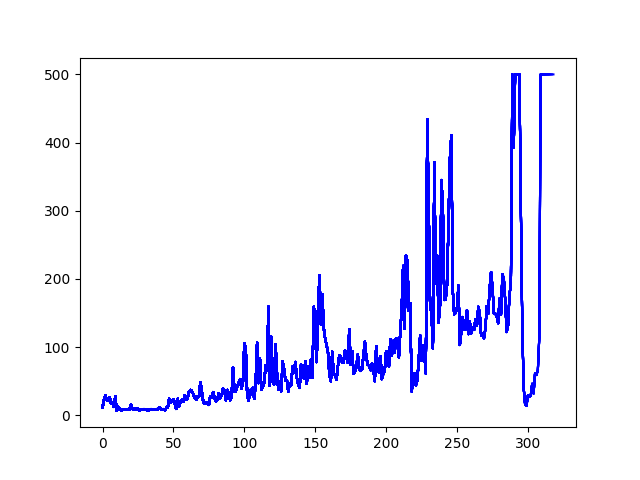
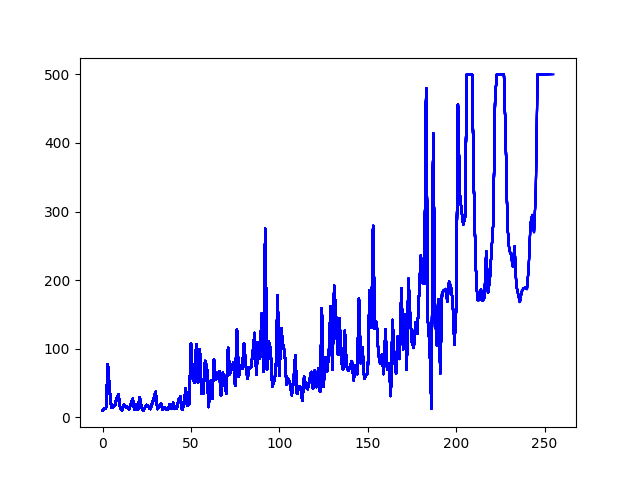
fix model saving part and make a2c code to be trainable

diff --git a/2-cartpole/2-actor-critic/cartpole_a2c.py b/2-cartpole/2-actor-critic/cartpole_a2c.py
@@ -5,36 +5,37 @@ import numpy as np
 from keras.layers import Dense
 from keras.models import Sequential
 from keras.optimizers import Adam
+from keras import backend as K
 
 EPISODES = 1000
 
 
-# A2C(Advantage Actor-Critic) agent for the Cartpole
+# 카트폴 예제에서의 액터-크리틱(A2C) 에이전트
 class A2CAgent:
     def __init__(self, state_size, action_size):
-        # if you want to see Cartpole learning, then change to True
         self.render = False
         self.load_model = False
-        # get size of state and action
+        # 상태와 행동의 크기 정의
         self.state_size = state_size
         self.action_size = action_size
         self.value_size = 1
 
-        # These are hyper parameters for the Policy Gradient
+        # 액터-크리틱 하이퍼파라미터
         self.discount_factor = 0.99
         self.actor_lr = 0.001
         self.critic_lr = 0.005
 
-        # create model for policy network
+        # 정책신경망과 가치신경망 생성
         self.actor = self.build_actor()
         self.critic = self.build_critic()
+        self.actor_updater = self.actor_optimizer()
+        self.critic_updater = self.critic_optimizer()
 
         if self.load_model:
             self.actor.load_weights("./save_model/cartpole_actor_trained.h5")
             self.critic.load_weights("./save_model/cartpole_critic_trained.h5")
 
-    # approximate policy and value using Neural Network
-    # actor: state is input and probability of each action is output of model
+    # actor: 상태를 받아 각 행동의 확률을 계산
     def build_actor(self):
         actor = Sequential()
         actor.add(Dense(24, input_dim=self.state_size, activation='relu',
@@ -42,54 +43,80 @@ class A2CAgent:
         actor.add(Dense(self.action_size, activation='softmax',
                         kernel_initializer='he_uniform'))
         actor.summary()
-        actor.compile(loss='categorical_crossentropy',
-                      optimizer=Adam(lr=self.critic_lr))
         return actor
 
-    # critic: state is input and value of state is output of model
+    # critic: 상태를 받아서 상태의 가치를 계산
     def build_critic(self):
         critic = Sequential()
+        critic.add(Dense(24, input_dim=self.state_size, activation='relu',
+                         kernel_initializer='he_uniform'))
         critic.add(Dense(24, input_dim=self.state_size, activation='relu',
                          kernel_initializer='he_uniform'))
         critic.add(Dense(self.value_size, activation='linear',
                          kernel_initializer='he_uniform'))
         critic.summary()
-        critic.compile(loss="mse", optimizer=Adam(lr=self.critic_lr))
         return critic
 
-    # using the output of policy network, pick action stochastically
+    # 정책신경망의 출력을 받아 확률적으로 행동을 선택
     def get_action(self, state):
         policy = self.actor.predict(state, batch_size=1).flatten()
         return np.random.choice(self.action_size, 1, p=policy)[0]
 
-    # update policy network every episode
-    def train_model(self, state, action, reward, next_state, done):
-        target = np.zeros((1, self.value_size))
-        advantages = np.zeros((1, self.action_size))
+    # 정책신경망을 업데이트하는 함수
+    def actor_optimizer(self):
+        action = K.placeholder(shape=[None, self.action_size])
+        advantage = K.placeholder(shape=[None, ])
 
+        action_prob = K.sum(action * self.actor.output, axis=1)
+        cross_entropy = K.log(action_prob) * advantage
+        loss = -K.sum(cross_entropy)
+
+        optimizer = Adam(lr=self.actor_lr)
+        updates = optimizer.get_updates(self.actor.trainable_weights, [], loss)
+        train = K.function([self.actor.input, action, advantage], [],
+                           updates=updates)
+        return train
+
+    # 가치신경망을 업데이트하는 함수
+    def critic_optimizer(self):
+        target = K.placeholder(shape=[None, ])
+
+        loss = K.mean(K.square(target - self.critic.output))
+
+        optimizer = Adam(lr=self.critic_lr)
+        updates = optimizer.get_updates(self.critic.trainable_weights, [], loss)
+        train = K.function([self.critic.input, target], [], updates=updates)
+
+        return train
+
+    # 각 타임스텝마다 정책신경망과 가치신경망을 업데이트
+    def train_model(self, state, action, reward, next_state, done):
         value = self.critic.predict(state)[0]
         next_value = self.critic.predict(next_state)[0]
 
-        if done:
-            advantages[0][action] = reward - value
-            target[0][0] = reward
-        else:
-            advantages[0][action] = reward + self.discount_factor * (
-                next_value - value)
-            target[0][0] = reward + self.discount_factor * next_value
+        act = np.zeros([1, self.action_size])
+        act[0][action] = 1
 
-        self.actor.fit(state, advantages, epochs=1, verbose=0)
-        self.critic.fit(state, target, epochs=1, verbose=0)
+        # 벨만 기대 방정식를 이용한 어드벤티지와 업데이트 타깃
+        if done:
+            advantage = reward - value
+            target = [reward]
+        else:
+            advantage = (reward + self.discount_factor * next_value) - value
+            target = reward + self.discount_factor * next_value
+
+        self.actor_updater([state, act, advantage])
+        self.critic_updater([state, target])
 
 
 if __name__ == "__main__":
-    # In case of CartPole-v1, maximum length of episode is 500
+    # CartPole-v1 환경, 최대 타임스텝 수가 500
     env = gym.make('CartPole-v1')
-    # get size of state and action from environment
+    # 환경으로부터 상태와 행동의 크기를 받아옴
     state_size = env.observation_space.shape[0]
     action_size = env.action_space.n
 
-    # make A2C agent
+    # 액터-크리틱(A2C) 에이전트 생성
     agent = A2CAgent(state_size, action_size)
 
     scores, episodes = [], []
@@ -107,7 +134,7 @@ if __name__ == "__main__":
             action = agent.get_action(state)
             next_state, reward, done, info = env.step(action)
             next_state = np.reshape(next_state, [1, state_size])
-            # if an action make the episode end, then gives penalty of -100
+            # 에피소드가 중간에 끝나면 -100 보상
             reward = reward if not done or score == 499 else -100
 
             agent.train_model(state, action, reward, next_state, done)
@@ -116,7 +143,7 @@ if __name__ == "__main__":
             state = next_state
 
             if done:
-                # every episode, plot the play time
+                # 에피소드마다 학습 결과 출력
                 score = score if score == 500.0 else score + 100
                 scores.append(score)
                 episodes.append(e)
@@ -124,12 +151,8 @@ if __name__ == "__main__":
                 pylab.savefig("./save_graph/cartpole_a2c.png")
                 print("episode:", e, "  score:", score)
 
-                # if the mean of scores of last 10 episode is bigger than 490
-                # stop training
+                # 이전 10개 에피소드의 점수 평균이 490보다 크면 학습 중단
                 if np.mean(scores[-min(10, len(scores)):]) > 490:
+                    agent.actor.save_weights("./save_model/cartpole_actor.h5")
+                    agent.critic.save_weights("./save_model/cartpole_critic.h5")
                     sys.exit()
-
-        # save the model
-        if e % 50 == 0:
-            agent.actor.save_weights("./save_model/cartpole_actor_trained.h5")
-            agent.critic.save_weights("./save_model/cartpole_critic_trained.h5")

diff --git a/2-cartpole/1-dqn/cartpole_dqn.py b/2-cartpole/1-dqn/cartpole_dqn.py
@@ -14,7 +14,6 @@ EPISODES = 300
 # 카트폴 예제에서의 DQN 에이전트
 class DQNAgent:
     def __init__(self, state_size, action_size):
-        # 카트폴이 학습하는 모습을 보고 싶으면 self.render 을 True로 설정
         self.render = False
         self.load_model = False
 
@@ -22,7 +21,7 @@ class DQNAgent:
         self.state_size = state_size
         self.action_size = action_size
 
-        # DQN 하이퍼 파라미터
+        # DQN 하이퍼파라미터
         self.discount_factor = 0.99
         self.learning_rate = 0.001
         self.epsilon = 1.0
@@ -30,20 +29,21 @@ class DQNAgent:
         self.epsilon_min = 0.01
         self.batch_size = 64
         self.train_start = 1000
-        # 리플레이 메모리 , 최대 크기 2000
+
+        # 리플레이 메모리, 최대 크기 2000
         self.memory = deque(maxlen=2000)
 
-        # 모델과 타겟 모델 생성
+        # 모델과 타깃 모델 생성
         self.model = self.build_model()
         self.target_model = self.build_model()
 
-        # 타겟 모델 초기화
+        # 타깃 모델 초기화
         self.update_target_model()
 
         if self.load_model:
             self.model.load_weights("./save_model/cartpole_dqn_trained.h5")
 
-    # 상태가 입력 큐함수가 출력인 인공신경망 생성
+    # 상태가 입력, 큐함수가 출력인 인공신경망 생성
     def build_model(self):
         model = Sequential()
         model.add(Dense(24, input_dim=self.state_size, activation='relu',
@@ -56,7 +56,7 @@ class DQNAgent:
         model.compile(loss='mse', optimizer=Adam(lr=self.learning_rate))
         return model
 
-    # 타겟 모델을 모델의 가중치로 업데이트
+    # 타깃 모델을 모델의 가중치로 업데이트
     def update_target_model(self):
         self.target_model.set_weights(self.model.get_weights())
 
@@ -68,52 +68,49 @@ class DQNAgent:
             q_value = self.model.predict(state)
             return np.argmax(q_value[0])
 
-    # 샘플 <s,a,r,s'> 을 리플레이 메모리에 저장
+    # 샘플 <s, a, r, s'>을 리플레이 메모리에 저장
     def append_sample(self, state, action, reward, next_state, done):
         self.memory.append((state, action, reward, next_state, done))
-        if self.epsilon > self.epsilon_min:
-            self.epsilon *= self.epsilon_decay
 
     # 리플레이 메모리에서 무작위로 추출한 배치로 모델 학습
     def train_model(self):
-        if len(self.memory) < self.train_start:
-            return
-        # 메모리에서 배치크기만큼 무작위로 샘플 추출
-        batch_size = min(self.batch_size, len(self.memory))
-        mini_batch = random.sample(self.memory, batch_size)
+        if self.epsilon > self.epsilon_min:
+            self.epsilon *= self.epsilon_decay
 
-        update_input = np.zeros((batch_size, self.state_size))
-        update_target = np.zeros((batch_size, self.state_size))
-        action, reward, done = [], [], []
+        # 메모리에서 배치 크기만큼 무작위로 샘플 추출
+        mini_batch = random.sample(self.memory, self.batch_size)
+
+        states = np.zeros((self.batch_size, self.state_size))
+        next_states = np.zeros((self.batch_size, self.state_size))
+        actions, rewards, dones = [], [], []
 
         for i in range(self.batch_size):
-            update_input[i] = mini_batch[i][0]
-            action.append(mini_batch[i][1])
-            reward.append(mini_batch[i][2])
-            update_target[i] = mini_batch[i][3]
-            done.append(mini_batch[i][4])
+            states[i] = mini_batch[i][0]
+            actions.append(mini_batch[i][1])
+            rewards.append(mini_batch[i][2])
+            next_states[i] = mini_batch[i][3]
+            dones.append(mini_batch[i][4])
 
         # 현재 상태에 대한 모델의 큐함수
-        # 다음 상태에 대한 타겟 모델의 큐함수
-        target = self.model.predict(update_input)
-        target_val = self.target_model.predict(update_target)
+        # 다음 상태에 대한 타깃 모델의 큐함수
+        target = self.model.predict(states)
+        target_val = self.target_model.predict(next_states)
 
-        # 벨만 최적 방정식을 이용한 타겟 업데이트
+        # 벨만 최적 방정식을 이용한 업데이트 타깃
         for i in range(self.batch_size):
-            if done[i]:
-                target[i][action[i]] = reward[i]
+            if dones[i]:
+                target[i][actions[i]] = rewards[i]
             else:
-                target[i][action[i]] = reward[i] + self.discount_factor * (
+                target[i][actions[i]] = rewards[i] + self.discount_factor * (
                     np.amax(target_val[i]))
 
-        self.model.fit(update_input, target, batch_size=self.batch_size,
+        self.model.fit(states, target, batch_size=self.batch_size,
                        epochs=1, verbose=0)
 
 
 if __name__ == "__main__":
     # CartPole-v1 환경, 최대 타임스텝 수가 500
     env = gym.make('CartPole-v1')
-    # 환경으로부터 상태와 행동의 크기 받아옴
     state_size = env.observation_space.shape[0]
     action_size = env.action_space.n
 
@@ -133,26 +130,29 @@ if __name__ == "__main__":
             if agent.render:
                 env.render()
 
-            # get action for the current state and go one step in environment
+            # 현재 상태로 행동을 선택
             action = agent.get_action(state)
+            # 선택한 행동으로 환경에서 한 타임스텝 진행
             next_state, reward, done, info = env.step(action)
             next_state = np.reshape(next_state, [1, state_size])
-            # if an action make the episode end, then gives penalty of -100
+            # 에피소드가 중간에 끝나면 -100 보상
             reward = reward if not done or score == 499 else -100
 
-            # save the sample <s, a, r, s'> to the replay memory
+            # 리플레이 메모리에 샘플 <s, a, r, s'> 저장
             agent.append_sample(state, action, reward, next_state, done)
-            # every time step do the training
-            agent.train_model()
+            # 매 타임스텝마다 학습
+            if len(agent.memory) >= agent.train_start:
+                agent.train_model()
+
             score += reward
             state = next_state
 
             if done:
-                # every episode update the target model to be same with model
+                # 각 에피소드마다 타깃 모델을 모델의 가중치로 업데이트
                 agent.update_target_model()
 
-                # every episode, plot the play time
                 score = score if score == 500 else score + 100
+                # 에피소드마다 학습 결과 출력
                 scores.append(score)
                 episodes.append(e)
                 pylab.plot(episodes, scores, 'b')
@@ -160,11 +160,7 @@ if __name__ == "__main__":
                 print("episode:", e, "  score:", score, "  memory length:",
                       len(agent.memory), "  epsilon:", agent.epsilon)
 
-                # if the mean of scores of last 10 episode is bigger than 490
-                # stop training
+                # 이전 10개 에피소드의 점수 평균이 490보다 크면 학습 중단
                 if np.mean(scores[-min(10, len(scores)):]) > 490:
+                    agent.model.save_weights("./save_model/cartpole_dqn.h5")
                     sys.exit()
-
-        # save the model
-        if e % 50 == 0:
-            agent.model.save_weights("./save_model/cartpole_dqn_trained.h5")
